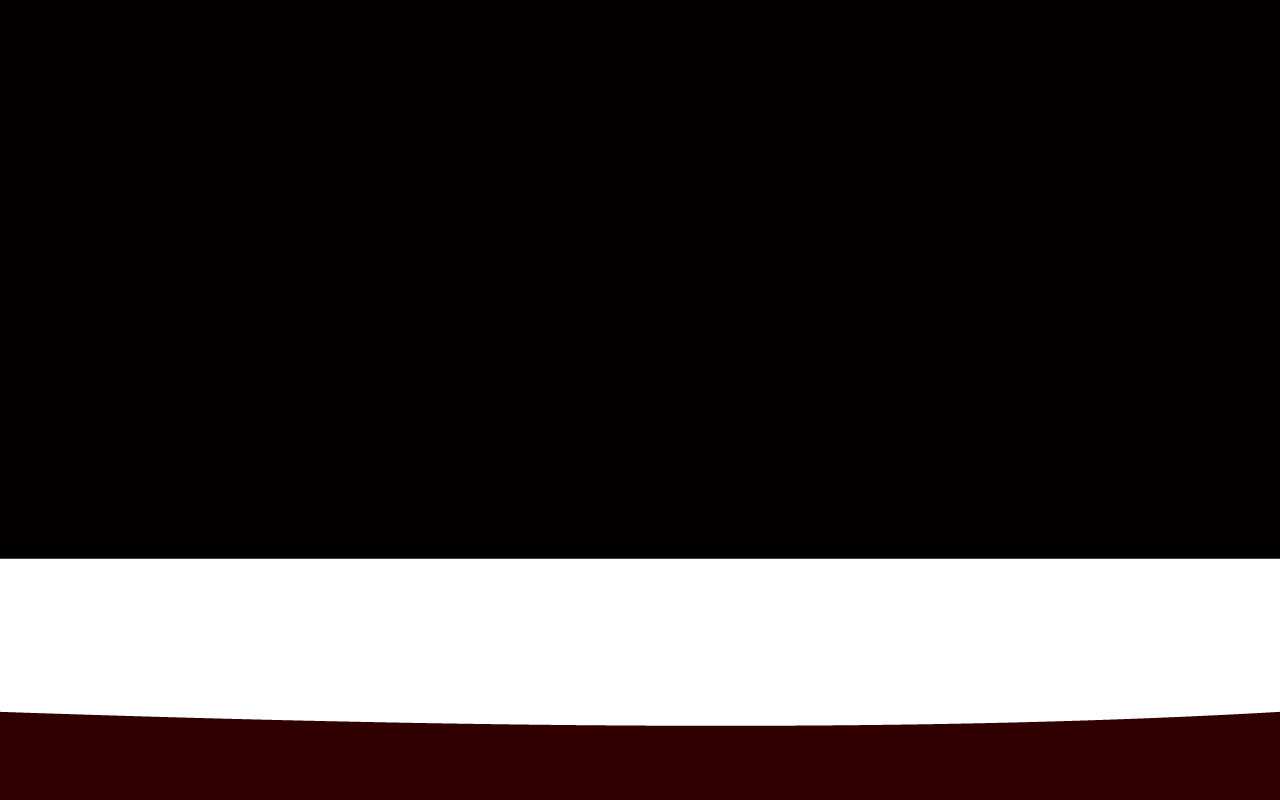
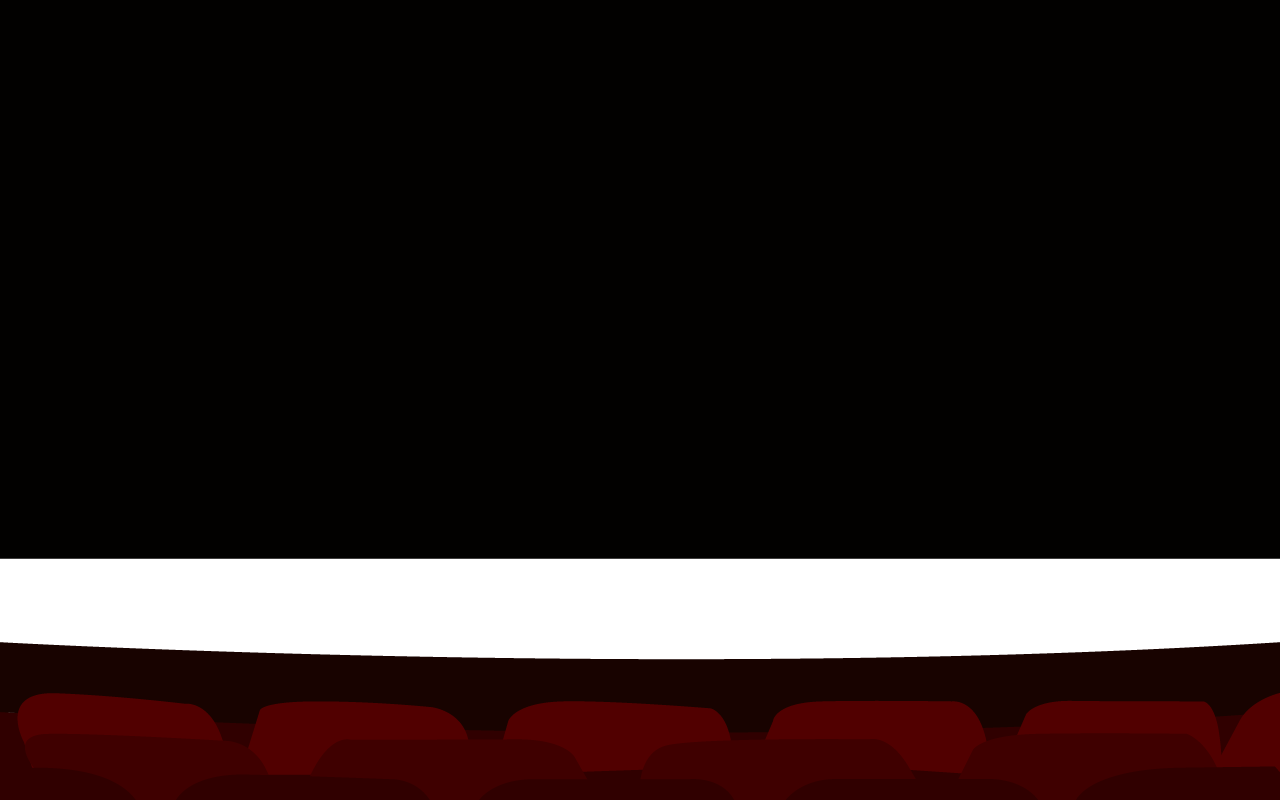
teleport fix, updated signs, layer optimization

Changed region(s): [[0.0, 0.7812, 1.0, 0.9688]]

diff --git a/client/js/game/scene/Game.js b/client/js/game/scene/Game.js
@@ -144,9 +144,10 @@ class Game extends Phaser.Scene {
 
             //objects
             this.load.image('Sign_News', 'room/forest/objects/Sign_News.png');
-            // this.load.image('Banner', 'room/forest/objects/Banner.png');
+            this.load.image('Sign_Theatre', 'room/forest/objects/Sign_Theatre.png');
             this.load.image('Radio', 'room/forest/objects/Radio.png');
             this.load.image('Lost_Recording', 'room/forest/objects/Lost_Recording.png');
+            // this.load.image('Banner', 'room/forest/objects/Banner.png');
             // this.load.image('Table_FindFour', 'room/forest/objects/Table_FindFour.png');
 
             //object sfx
@@ -165,10 +166,10 @@ class Game extends Phaser.Scene {
             this.load.image('Theatre_Background', 'room/theatre/layers/Background.png');
             this.load.image('Theatre_Stage', 'room/theatre/layers/Stage.png');
             this.load.image('Theatre_Curtains', 'room/theatre/layers/Curtains.png');
-            this.load.image('Theatre_Seats_1', 'room/theatre/layers/Seats_1.png');
-            this.load.image('Theatre_Seats_2', 'room/theatre/layers/Seats_2.png');
-            this.load.image('Theatre_Seats_3', 'room/theatre/layers/Seats_3.png');
             this.load.image('Theatre_Foreground', 'room/theatre/layers/Foreground.png');
+
+            //objects
+            this.load.image('Sign_Forest', 'room/theatre/objects/Sign_Forest.png');
         };
     };
 
@@ -230,7 +231,6 @@ class Game extends Phaser.Scene {
     };
 
     update() {
-
         //handle collisions between player and npc characters
         for(var i = 0; i < this.npcList.length; i++) {
             Object.keys(this.playerCharacter).forEach((key) => {
@@ -252,17 +252,17 @@ class Game extends Phaser.Scene {
             });
         };
 
-        //detect teleports
-        for(var i = 0; i < this.teleportList.length; i++) {
-            Object.keys(this.playerCharacter).forEach((key) => {
-                this.physics.world.collide(this.playerCharacter[key], this.teleportList[i]["teleport"], () => {
+        //check if player attempts to teleport
+        if (this.playerCharacter[clientID]) {
+            for(var i = 0; i < this.teleportList.length; i++) {
+                this.physics.world.collide(this.playerCharacter[clientID], this.teleportList[i]["teleport"], () => {
                     //open new room scene
-                    this.end(); 
+                    this.end();
                     this.scene.start('Game', this.teleportList[i]["room"]);
                 });
-            });
-        };
-
+            };
+        }
+        
         //handle player character depth
         Object.keys(this.playerCharacter).forEach((key) => {
             this.playerCharacter[key].setDepth(this.playerCharacter[key].y);
@@ -332,12 +332,6 @@ class Game extends Phaser.Scene {
             this.walkableLayer = 'Theatre_Stage';
             this.add.image(this.canvas.width/2, this.canvas.height/2, 'Theatre_Curtains').setDepth(610);
             this.unWalkableLayer.push('Theatre_Curtains');
-            this.add.image(this.canvas.width/2, this.canvas.height/2, 'Theatre_Seats_1').setDepth(736);
-            this.unWalkableLayer.push('Theatre_Seats_1');
-            this.add.image(this.canvas.width/2, this.canvas.height/2, 'Theatre_Seats_2').setDepth(770);
-            this.unWalkableLayer.push('Theatre_Seats_2');
-            this.add.image(this.canvas.width/2, this.canvas.height/2, 'Theatre_Seats_3').setDepth(786);
-            this.unWalkableLayer.push('Theatre_Seats_3');
             this.add.image(this.canvas.width/2, this.canvas.height/2, 'Theatre_Foreground').setDepth(this.depthForeground);
             this.unWalkableLayer.push('Theatre_Foreground');
         }
@@ -361,12 +355,16 @@ class Game extends Phaser.Scene {
 
     //add room objects
     addRoomObjects(room) {
-
         //forest
         if (room == 'forest') {
+            //theatre sign
+            let theatre_sign = this.add.image(148, 600, 'Sign_Theatre')
+            .setDepth(600)
+            .setOrigin(0.5, 1);
+
             //news sign
-            let news_sign = this.add.image(187, 630, 'Sign_News')
-            .setDepth(628)
+            let news_sign = this.add.image(1020, 620, 'Sign_News')
+            .setDepth(630)
             .setOrigin(0.5, 1)
             .setInteractive();
             this.setInteractObject(news_sign);
@@ -418,6 +416,13 @@ class Game extends Phaser.Scene {
             // this.setInteractObject(tableFindFour);
             // tableFindFour.on('pointerdown', () => {
             // }, this);
+
+        //theatre
+        } else if (room == 'theatre') {
+            //forest sign
+            let forest_sign = this.add.image(1236, 692, 'Sign_Forest')
+            .setDepth(700)
+            .setOrigin(0.5, 1);
         }
     };
 
@@ -427,12 +432,12 @@ class Game extends Phaser.Scene {
             //create collider
             var theatreTeleport = this.add.sprite(142, 601);
             theatreTeleport.width = 100;
-            theatreTeleport.height = 300;
+            theatreTeleport.height = 500;
             this.physics.world.enable(theatreTeleport);
             theatreTeleport.body.setCollideWorldBounds(true);
 
             //add teleport to list
-            const theatreTeleportObject = { room: "theatre", teleport: theatreTeleport, xMin: 281, xMax: 975, yMin: 560, yMax: 731};
+            const theatreTeleportObject = { room: "theatre", teleport: theatreTeleport, spawn: {x: 1042, y: 637, direction: 'left'} };
             this.teleportList.push(theatreTeleportObject);
 
         //theatre
@@ -445,7 +450,7 @@ class Game extends Phaser.Scene {
             forestTeleport.body.setCollideWorldBounds(true);
 
             //add teleport to list
-            const forestTeleportObject = { room: "forest", teleport: forestTeleport, xMin: 281, xMax: 975, yMin: 560, yMax: 731};
+            const forestTeleportObject = { room: "forest", teleport: forestTeleport, spawn: {x: 252, y: 632, direction: 'right'}};
             this.teleportList.push(forestTeleportObject);
         };
     }

diff --git a/server/Server.js b/server/Server.js
@@ -197,3 +197,4 @@ io.on('connection', async function(socket) {
     const connection = new Connection(io, socket);
     await connection.init();
 });
+
